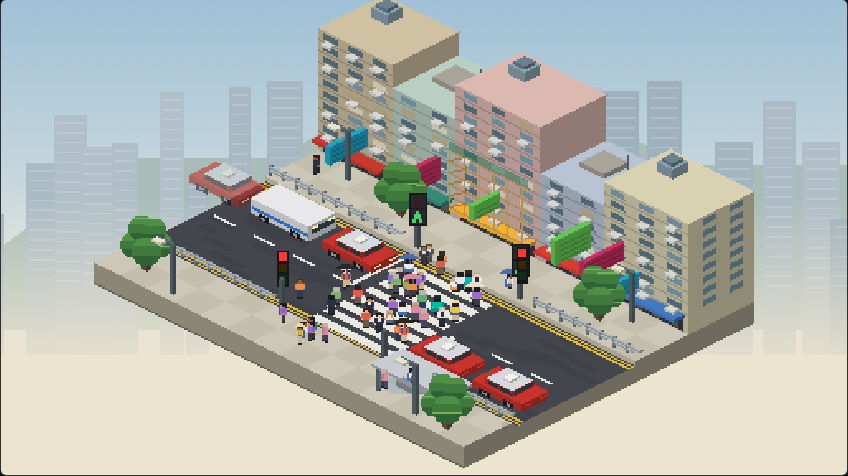
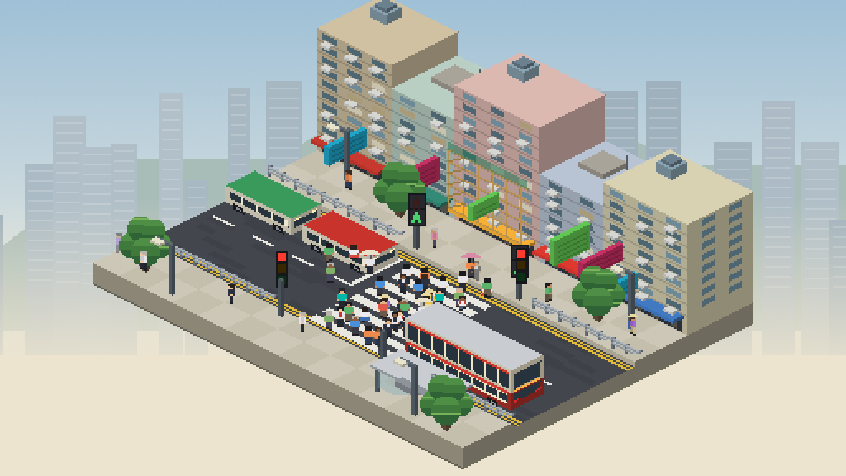
hkg-crossing: taller double-deckers, fixed 40% volume, new cover, write-up refreshed
Buses are 24px tall with a proper lower and upper deck. Volume is a fixed 0.2
(40% of the old level) with no slider. The index card cover and og image are a
day/night split of the street; the write-up screenshots are retaken and the
quiet-hours section mentions the lower level.

diff --git a/hkg-crossing/index.html b/hkg-crossing/index.html
@@ -31,6 +31,9 @@ h1 { font:italic 400 clamp(40px,9vw,64px)/1 var(--serif); letter-spacing:-.02em;
 p.lede { color:var(--dim); margin:0 0 32px; max-width:560px; }
 .pole { view-transition-name: lab-art; position:relative; margin:8px 0 16px; border:1px solid var(--line); border-radius:6px; overflow:hidden; background:#0d0d11; line-height:0; }
 #scene { display:block; width:100%; height:auto; image-rendering:pixelated; image-rendering:crisp-edges; }
+html.bare .back, html.bare h1, html.bare .lede, html.bare .dock, html.bare #status, html.bare #quiet, html.bare .tools, html.bare .tune, html.bare .notes { display:none; }   /* ?bare: just the scene, for screenshots and covers */
+html.bare main { padding:0; max-width:none; }
+html.bare .pole { margin:0; border:0; border-radius:0; }
 .dock { display:flex; justify-content:center; margin:0 0 12px; }
 .box { background:#16161c; border:1px solid var(--line); border-radius:12px; padding:12px 14px 10px; display:flex; flex-direction:column; align-items:center; gap:8px; width:132px; }
 .press { width:64px; height:64px; min-height:0; padding:0; border-radius:50%; border:2px solid #55555e; background:radial-gradient(circle at 35% 30%, #8a8a94, #3a3a42); display:grid; place-items:center; transition:transform .08s, background .15s, border-color .15s; }
@@ -40,8 +43,6 @@ p.lede { color:var(--dim); margin:0 0 32px; max-width:560px; }
 .plate { margin:0; font-size:11px; letter-spacing:.14em; text-transform:uppercase; color:var(--dim); text-align:center; min-height:1.4em; }
 #status { display:block; text-align:center; color:var(--dim); margin:0 0 20px; min-height:1.5em; }
 .quiet { max-width:34ch; margin:0 auto 16px; text-align:center; color:var(--dim); font-size:12px; border:1px solid var(--line); border-radius:10px; padding:10px 14px; }
-.vol { display:flex; align-items:center; gap:10px; font-size:11px; letter-spacing:.14em; text-transform:uppercase; color:var(--dim); }
-.vol input { width:110px; accent-color:var(--ink); min-height:36px; }
 .tools { display:flex; flex-wrap:wrap; justify-content:center; gap:10px; margin:0 0 24px; }
 .mute { margin:0; min-height:36px; padding:6px 14px; font-size:11px; letter-spacing:.14em; text-transform:uppercase; color:var(--dim); }
 .mute[aria-pressed="true"] { background:transparent; color:var(--ink); border-color:var(--ink); }
@@ -92,7 +93,7 @@ button:active { transform:scale(.97); }
   </div></div>
   <output id="status" aria-live="polite">Red man</output>
   <p id="quiet" class="quiet" role="status" hidden>Quiet hours, midnight to 6am: the crossing stays silent. Come back after six.</p>
-  <div class="tools"><label class="vol">Volume <input type="range" id="vol" min="0" max="100" step="1" value="60" aria-label="Volume"></label><button type="button" class="mute" id="mute" aria-pressed="false">Mute</button><button type="button" class="mute" id="realOpen">Hear the real one</button></div>
+  <div class="tools"><button type="button" class="mute" id="mute" aria-pressed="false">Mute</button><button type="button" class="mute" id="realOpen">Hear the real one</button></div>
 
   <details class="tune"><summary>Tune the sound</summary>
 
@@ -296,14 +297,12 @@ const CONFIG = {
     blend: { label: 'Blend', pitch: 1300, ms: 120, drop: 0.8, snap: 0.5, bell: 0.4, hi: 1450, hiMix: 0.8, lo: 750, loMix: 0.8 },
   },
   cycle: [['wait', 4], ['walk', 8], ['clear', 5]], // seconds per phase
-  volume: 0.5,
+  volume: 0.2,       // master level: 40% of the original 0.5, which was louder than YouTube or games
   lookahead: 0.12,   // seconds scheduled ahead
   interval: 25,      // ms between scheduler runs
 };
 
-// Volume: the slider runs 0-100 on a squared curve up to CONFIG.volume (the old, loud level). Default 60 is about 9 dB quieter than before.
-let savedVol = 60; try { const v = parseInt(localStorage.getItem('hkg:vol'), 10); if (v >= 0 && v <= 100) savedVol = v; } catch (e) {}
-const state = { vol: savedVol, phase: 'off', voice: 'blend', pitch: 1300, ms: 120, drop: 0.8, snap: 0.5, bell: 0.4, hi: 1450, hiMix: 0.8, lo: 750, loMix: 0.8,
+const state = { phase: 'off', voice: 'blend', pitch: 1300, ms: 120, drop: 0.8, snap: 0.5, bell: 0.4, hi: 1450, hiMix: 0.8, lo: 750, loMix: 0.8,
                 human: 0.5, drift: 0, shift: -1, verb: 0.2, room: 0.5, hollow: 0.3, hollowMs: 4, pause: 0.71, burstIdx: 0, rates: { wait: 1, walk: 10, clear: 10 }, ctx: null, master: null, noise: null,
                 nextTime: 0, timer: 0, cycling: false, cycleTimer: 0 };
 
@@ -333,12 +332,11 @@ function applySpace() {
 }
 function applyRoom() { if (state.ctx) state.conv.buffer = makeIR(state.ctx, state.room); }
 
-function masterGain() { return CONFIG.volume * Math.pow(state.vol / 100, 2); }
 function ensureAudio() {
   if (state.ctx) { if (state.ctx.state === 'suspended') state.ctx.resume(); return; }
   const AC = window.AudioContext || window.webkitAudioContext;
   const ctx = state.ctx = new AC({ latencyHint: 'interactive' });
-  state.master = ctx.createGain(); state.master.gain.value = masterGain();
+  state.master = ctx.createGain(); state.master.gain.value = CONFIG.volume;
   const comp = ctx.createDynamicsCompressor();
   comp.connect(ctx.destination);
   // Space: dry + convolution reverb (generated room) + a short feedback delay for a hollow, boxy/tube ring.
@@ -546,8 +544,6 @@ function build() {
   };
   $('cycle').onclick = () => { state.cycling ? stopCycle() : startCycle(); };
   setVoice('blend'); setPhase('off'); $('status').textContent = 'Red man'; $('press').onclick = () => { showQuiet(); startCrossing(); }; showQuiet();
-  $('vol').value = state.vol;
-  $('vol').oninput = () => { state.vol = +$('vol').value; if (state.ctx) state.master.gain.setTargetAtTime(masterGain(), state.ctx.currentTime, 0.02); try { localStorage.setItem('hkg:vol', state.vol); } catch (e) {} };
   $('mute').onclick = () => { state.muted = !state.muted; $('mute').setAttribute('aria-pressed', state.muted); $('mute').textContent = state.muted ? 'Unmute' : 'Mute'; };
 }
 
@@ -596,6 +592,7 @@ document.addEventListener('visibilitychange', () => { if (document.hidden && sta
 build();
 { const q = new URLSearchParams(location.search);
   if (q.has('tune')) document.querySelector('.tune').open = true;
+  if (q.has('bare')) document.documentElement.classList.add('bare');
   if (CONFIG.phases[q.get('phase')]) setPhase(q.get('phase')); }   // ?phase=wait|walk|clear shows that lamp, silently (for screenshots)
 
 // ---- compare with the real thing: a lightbox with a real crossing video (loads only when opened) and a "Play mine" button

diff --git a/hkg-crossing/scene.js b/hkg-crossing/scene.js
@@ -204,7 +204,7 @@ const VT = {
   car:     { len: 1.8, wid: 0.95, bh: 4.5, ch: 3.5, cab: [0.4, 1.4], vmax: 2.5, w: 5 },
   van:     { len: 2.2, wid: 1.05, bh: 9, ch: 0, vmax: 2.2, w: 2 },
   minibus: { len: 2.5, wid: 1.1, bh: 10, ch: 0, vmax: 2.7, w: 3 },
-  bus:     { len: 4.0, wid: 1.25, bh: 17, ch: 0, vmax: 1.9, w: 3 },
+  bus:     { len: 4.0, wid: 1.25, bh: 24, ch: 0, vmax: 1.9, w: 3 },
 };
 const CAR_COLS = ['#e9e9ec', '#9aa3ad', '#2a2e36', '#3a5f9a', '#7d8a74', '#a3322e', '#d8d2b8'];
 
@@ -216,11 +216,10 @@ function vehSprite(type, col, dir) {
     // body
     if (type === 'minibus') box(x, o, 0, 0, z0, t.len, t.wid, zb, { t: col.roof, l: shade(col.body, 0.82), r: shade(col.body, 0.66) });
     else if (type === 'bus') {
-      box(x, o, 0, 0, z0, t.len, t.wid, z0 + 8.5, { t: '#b3322b', l: shade('#b3322b', 0.82), r: shade('#b3322b', 0.66) });
-      box(x, o, 0, 0.03, z0 + 8.5, t.len, t.wid - 0.03, zb, { t: '#c9ccd0', l: shade(col.body, 0.82), r: shade(col.body, 0.66) });
+      box(x, o, 0, 0, z0, t.len, t.wid, z0 + 10, { t: '#b3322b', l: shade('#b3322b', 0.82), r: shade('#b3322b', 0.66) });
+      box(x, o, 0, 0.03, z0 + 10, t.len, t.wid - 0.03, zb, { t: '#c9ccd0', l: shade(col.body, 0.82), r: shade(col.body, 0.66) });
     } else box(x, o, 0, 0, z0, t.len, t.wid, zb, col.body);
     // lower body paint (bus: cream waist; van: blue stripe)
-    if (type === 'bus') faceL(x, o, 0.02, t.len - 0.02, t.wid, z0 + 2, z0 + 6.2, shade('#efe6c8', 0.82));
     if (type === 'van') faceL(x, o, 0.02, t.len - 0.02, t.wid, z0 + 2.5, z0 + 4.2, '#2f6db3');
     // glazing
     if (type === 'taxi' || type === 'car') {
@@ -237,12 +236,17 @@ function vehSprite(type, col, dir) {
     } else if (type === 'van') {
       faceR(x, o, 0.1, t.wid - 0.1, t.len, zb - 5.2, zb - 1.6, GLASS);
     } else if (type === 'bus') {
-      faceL(x, o, 0.12, t.len - 0.12, t.wid, z0 + 2.2 + 0.0, z0 + 0.0 + 6.1, '#efe6c8');
-      [[z0 + 9.5, z0 + 13.2], [z0 + 13.8, z0 + 16.2]].forEach(([a, b], k) => { if (k === 0) { faceL(x, o, 0.12, t.len - 0.12, t.wid - 0.03, a, b, GLASS); for (let u = 0.5; u < t.len - 0.2; u += 0.5) faceL(x, o, u, u + 0.06, t.wid - 0.03, a, b, '#efe6c8'); } });
-      faceL(x, o, 0.12, t.len - 0.12, t.wid, z0 + 6.2, z0 + 7.2, '#cf3a30');            // red waist band
-      faceL(x, o, 0.12, t.len - 0.12, t.wid, z0 + 2.2, z0 + 3.0, shade('#b3322b', 0.8)); // skirt
-      faceR(x, o, 0.1, t.wid - 0.1, t.len, z0 + 9.5, z0 + 15.5, GLASS);
-      faceR(x, o, 0.1, t.wid - 0.1, t.len, z0 + 3, z0 + 8.0, '#b3322b');
+      const cream = '#efe6c8', rw = t.len - 0.12;
+      faceL(x, o, 0.12, rw, t.wid, z0 + 3.2, z0 + 9.2, cream);                                   // lower deck: cream band with windows
+      faceL(x, o, 0.14, rw - 0.02, t.wid, z0 + 4.6, z0 + 8.4, GLASS);
+      faceL(x, o, 0.12, rw, t.wid - 0.03, z0 + 12, z0 + 21, GLASS);                              // upper deck: tall window band
+      for (let u = 0.5; u < t.len - 0.2; u += 0.5) { faceL(x, o, u, u + 0.06, t.wid, z0 + 4.6, z0 + 8.4, cream); faceL(x, o, u, u + 0.06, t.wid - 0.03, z0 + 12, z0 + 21, cream); }
+      faceL(x, o, 0.12, rw, t.wid, z0 + 9.2, z0 + 10.8, '#cf3a30');                              // red waist band
+      faceL(x, o, 0.12, rw, t.wid - 0.03, z0 + 21, z0 + 22.4, '#cf3a30');                         // red band under the roof line
+      faceL(x, o, 0.12, rw, t.wid, z0 + 2.2, z0 + 3.2, shade('#b3322b', 0.8));                    // skirt
+      faceR(x, o, 0.1, t.wid - 0.1, t.len, z0 + 4, z0 + 9, GLASS);                               // lower windscreen
+      faceR(x, o, 0.1, t.wid - 0.1, t.len, z0 + 12, z0 + 21, GLASS);                             // upper windscreen
+      faceR(x, o, 0.1, t.wid - 0.1, t.len, z0 + 10.2, z0 + 11.4, '#ffb347');                     // destination blind
     }
     // lights on the +u end
     const lz = type === 'bus' ? z0 + 4 : zb - 2.6;
@@ -642,6 +646,8 @@ if ('ResizeObserver' in window) new ResizeObserver(fit).observe(cv.parentElement
 window.HKG_SCENE = {
   setPhase(p) { setPhase(p); describe(); if (reduce) { warm(3); render(); } },
   pulse() { state.pulse = 0.05; },
+  // debug: put a vehicle of a given type on lane li at progress s (used to check sprites)
+  force(li, type, s0) { const l = lanes[li], t = VT[type], col = type === 'bus' ? { body: '#efe6c8' } : type === 'taxi' ? { body: '#c8342b' } : { body: '#e8e8ea', roof: '#c8342b' }; l.list.push({ type, len: t.len, wid: t.wid, vmax: t.vmax, s: s0, sp: 0, spr: vehSpr(type, 'dbg', col, l.dir), lane: l }); l.list.sort((a, b) => b.s - a.s); render(); },
   render, warm, state, lanes, peds, CFG,
 };
 })();

diff --git a/hkg-crossing/direction/index.html b/hkg-crossing/direction/index.html
@@ -131,11 +131,11 @@ dialog.real::backdrop { background: rgba(4,4,6,.82); }
   <section>
     <div class="n">06</div>
     <h2>A street to watch</h2>
-    <p>A lamp and a button were enough to carry the sound for a while, but a crossing is really about the people on it. So the page is now a small isometric Hong Kong street, drawn entirely in code with no image files: tenements with air-con units and neon signs, double-decker buses, red taxis and minibuses driving on the left, and a proper crowd. Press the button and it plays out on the street. The crowd gathers at both kerbs while the car lights go amber, then red. The scramble starts on the green man, the last few hurry on the flashing green, and the traffic pulls away when it's over.</p>
-    <img class="shot wide" src="shots/5-street-day.webp" alt="An isometric pixel-art Hong Kong street in daylight with a crowd crossing a zebra crossing between stopped taxis and a bus" width="848" height="476" loading="lazy">
+    <p>A lamp and a button were enough to carry the sound for a while, but a crossing is really about the people on it. So the page is now a small isometric Hong Kong street, drawn entirely in code with no image files: tenements with air-con units and neon signs, tall double-decker buses, red taxis and minibuses driving on the left, and a proper crowd. Press the button and it plays out on the street. The crowd gathers at both kerbs while the car lights go amber, then red. The scramble starts on the green man, the last few hurry on the flashing green, and the traffic pulls away when it's over.</p>
+    <img class="shot wide" src="shots/5-street-day.webp" alt="An isometric pixel-art Hong Kong street in daylight with a crowd crossing a zebra crossing between stopped taxis and a bus" width="846" height="476" loading="lazy">
     <p class="cap">The green man: cars stopped at the lights, the crowd on the zebra. Preview any moment with ?phase=wait, walk or clear.</p>
     <p>It follows your clock, too. After 7pm the neon and the windows light up and the headlights come on, and between midnight and 6am the street goes quiet along with the sound. The sound and the picture share one set of phases, so they can't drift apart.</p>
-    <img class="shot wide" src="shots/6-street-night.webp" alt="The same street at night with lit windows, glowing neon signs, headlights and street lamps, and a crowd gathering at the kerb" width="848" height="476" loading="lazy">
+    <img class="shot wide" src="shots/6-street-night.webp" alt="The same street at night with lit windows, glowing neon signs, headlights and street lamps, and a crowd gathering at the kerb" width="846" height="476" loading="lazy">
     <p class="cap">The same street at 10pm, with the crowd gathering while the lights change. Try ?hour=22.</p>
     <p class="say"><b>Rule:</b> one clock for the sound and the picture, so they can't drift apart.</p>
   </section>
@@ -143,7 +143,7 @@ dialog.real::backdrop { background: rgba(4,4,6,.82); }
   <section>
     <div class="n">07</div>
     <h2>Quiet hours</h2>
-    <p>From midnight to 6am, local time, it stays silent and says so. A sound built to help one person cross is noise to everyone sleeping above the road, so at night it gets the night off. There is a Mute button for the rest of the day.</p>
+    <p>From midnight to 6am, local time, it stays silent and says so. A sound built to help one person cross is noise to everyone sleeping above the road, so at night it gets the night off. There is a Mute button for the rest of the day. The level is also lower than my first version, which was louder than YouTube or a game running in another tab and would have been uncomfortable for a visitor: it now plays at 40% of that level, with no volume control to fiddle with.</p>
     <p>Browsers won't play sound before you touch the page, so the ticking starts the first time you press the button. After that, the red man keeps ticking between crossings. <code>?hour=2</code> pretends it's 2am if you want to see the note.</p>
     <img class="shot" src="shots/4-quiet.webp" alt="The signal page at night with a note saying quiet hours from midnight to 6am and the crossing stays silent" width="800" height="1000" loading="lazy">
     <p class="cap">The night note. It appears on load and when you press the button.</p>

diff --git a/hkg-crossing/direction/demo.js b/hkg-crossing/direction/demo.js
@@ -1,7 +1,7 @@
 // Demo player for the "Behind the design" page: replays the sound at each stage of the build.
 // The synthesis below is copied from ../index.html (voiceTick, the space effects, ensureAudio); keep them in step if the voice changes.
 'use strict';
-const CONFIG = { volume: 0.5 * 0.36 };   // the lab's default volume (slider 60 on a squared curve), so demos aren't louder than the lab
+const CONFIG = { volume: 0.2 };   // same level as the lab's CONFIG.volume, so demos aren't louder than the lab
 const DEFAULTS = { voice: 'blend', pitch: 1600, ms: 30, drop: 0.8, snap: 0.5, bell: 0, hi: 1600, hiMix: 0, lo: 700, loMix: 0,
   human: 0, drift: 0, shift: 0, verb: 0, room: 0.5, hollow: 0, hollowMs: 4 };
 const state = { ...DEFAULTS, ctx: null };

diff --git a/index.html b/index.html
@@ -278,7 +278,8 @@ var LABS = [
     blurb: 'The tick of a Hong Kong pedestrian crossing, built from oscillators and noise, with a pixel-art street to watch. Press the button, wait for the green man, and join the crowd. It goes quiet from midnight to 6am.',
     tags: ['Web Audio', 'Synthesis', 'Made with Sonnet 5.5'],
     date: '2026-11-05',
-    cover: 'hkg-crossing/cover.svg',
+    cover: 'hkg-crossing/cover.webp',
+    fit: 'cover',
     notes: 'hkg-crossing/direction/',
     glows: [['#47d16b', '30%', '40%'], ['#ff4d3d', '72%', '34%']]
   },

diff --git a/CLAUDE.md b/CLAUDE.md
@@ -70,7 +70,8 @@ The tick of a Hong Kong pedestrian crossing, synthesised with the Web Audio API 
 - Quiet hours: `QUIET = { from: 0, to: 6 }` (local time). All ticks stop and a note shows; `?hour=N` fakes the hour for testing. A Mute button sits under the signal. Browsers block audio until a touch, so nothing ticks on a fresh load until the first press.
 - Voice ("Blend", the only one Chuck kept): a sine body whose pitch falls (`drop` 0.8) plus a short triangle overtone, bandpassed noise "snap", bell-ratio partials (x2.76, x5.4, `bell` 0.4), and three strikes at once: 750 / 1300 / 1450 Hz, 120 ms, Transpose -1.00 semitone (so about 708 / 1227 / 1369 Hz). Imperfection 0.5: per-tick pitch drift and wobble, per-strike detune, length, level and timing jitter. Space: generated reverb (room 0.5s, wet 0.2: 0.3 was a bit strong on Chuck's phone) plus a short feedback "hollow" echo (0.3, 4ms) for the box-on-a-pole ring. All of these have steppers in the panel; the defaults are Chuck's ear-tuned values against a recording.
 - Street scene (`scene.js`, `window.HKG_SCENE`): isometric 2:1 tiles (u along the road, v across; left-hand traffic: far lane drives +u, near lane -u), 512x288 internal canvas, drawn only with fillRect/polygon spans (pixel-exact, no anti-aliasing) from iso boxes. Static scenery (sky, skyline, road, zebra, five tenements with air-cons, scaffolding, neon signs) is pre-rendered once; vehicles (taxi, car, van, minibus, double-decker bus) and props (guardrails, lamps, trees, signal poles, bus shelter) are pre-rendered sprites; pedestrians are 12px billboards from 36 seeded looks (worker, school kid, auntie with the red-white-blue bag, tourist, delivery rider, casual; some with umbrellas) in 4 walk frames and 3 facings. Everything drawn is depth-sorted by u+v each frame (~0.1ms of JS). The lab calls `HKG_SCENE.setPhase(p)` from its own `setPhase` and `HKG_SCENE.pulse()` on each tick. Mapping: off = traffic flows, a few strollers; wait = crowd gathers at both kerbs (up to ~11 a side), car light green->amber (1s)->red (2s); walk = car red, crowd released with a 0-1.2s stagger plus a 3s scramble of new arrivals, cars yield to anyone on the road; clear = no new crossers, 4 hurrying runners; back to off = cars released after 1.2s. Vehicles and pedestrians dissolve at the slab ends instead of clipping. Night (7pm to 6am local, or `?hour=`): multiply tint then an emissive layer (lit windows, neon, lamp glows) plus headlights/taillights and signal heads redrawn on top; midnight to 6am (the quiet hours) also thins the traffic and crowd. Phones (<600px wide) get a 360px crop of the same scene so pixels stay near 1:1; reduced motion renders static states (`warm()` simulates a few seconds per phase change, no loop). The loop pauses off-screen and when the tab is hidden. Built in a separate clone (`claude-projects/labs-clones/hkg-scene`, branch `hkg-scene`). Chuck's decisions: isometric, replace the SVG signal head, "proper HK crowd".
-- Volume: a slider beside Mute (stored in localStorage `hkg:vol`, default 60). Master gain = `CONFIG.volume` (0.5, the old full level) x (slider/100)^2, so the default is about 9 dB quieter than the first release (Chuck: it was louder than YouTube and games). The write-up demo uses the same default level (`demo.js` `CONFIG.volume`).
+- Volume: fixed, no control. `CONFIG.volume` is 0.2, i.e. 40% of the original 0.5 (about 8 dB quieter; Chuck: it was louder than YouTube and games). The write-up demo uses the same value (`demo.js` `CONFIG.volume`).
+- Cover: `hkg-crossing/cover.webp` (from `originals/hkg-crossing/cover.png`, 1000x475, `fit: 'cover'`): the street by day on the left and at night on the right, split on the same slight diagonal as the ocean cover (top 46%, bottom 54%), composed from `?phase=walk&hour=10&bare` and `?phase=wait&hour=22&bare` renders (`?bare` hides everything but the scene). `cover.og.jpg` is the same composite at 1200x630. Buses are 24px tall (`VT.bus.bh`); `HKG_SCENE.force(lane, type, s)` puts a vehicle on screen to check a sprite.
 - Scheduling: a lookahead scheduler on the audio clock (not setTimeout drift); the lamp pulse is a timeout keyed to each tick. The context suspends when the tab is hidden.
 - Write-up demo: `hkg-crossing/direction/demo.js` replays the sound at stages of the build behind play buttons (`HKG_DEMO.play(id)`; ids in `STAGES`, `JOURNEY` is the order for "Play all"). The page also has a lightbox (`<dialog id="real">`) that loads a real-crossing YouTube video (youtube-nocookie, only on open; Chuck's pick, credited to Traveling Erol) with a "Play mine" button to compare. Write-up order is Chuck's: goal, listen to how it grew, hollow box interlude (explains stages 11-12), imperfection after the journey, crossing, quiet hours, testing. Its synthesis is a copy of the lab's `voiceTick`, space effects and `ensureAudio`: keep the two in step if the voice changes (the stage params are in `STAGES`; the final stage is `FINAL`).
 - Debug: `window.__crossing` is the state object; `window.HKG_SCENE` exposes `state`, `lanes`, `peds`, `warm(sec)`, `render()`. `?phase=wait|walk|clear` previews a moment of the crossing silently (the scene plays up to it), `?hour=N` fakes the hour (night, quiet hours). Used for the write-up screenshots.
